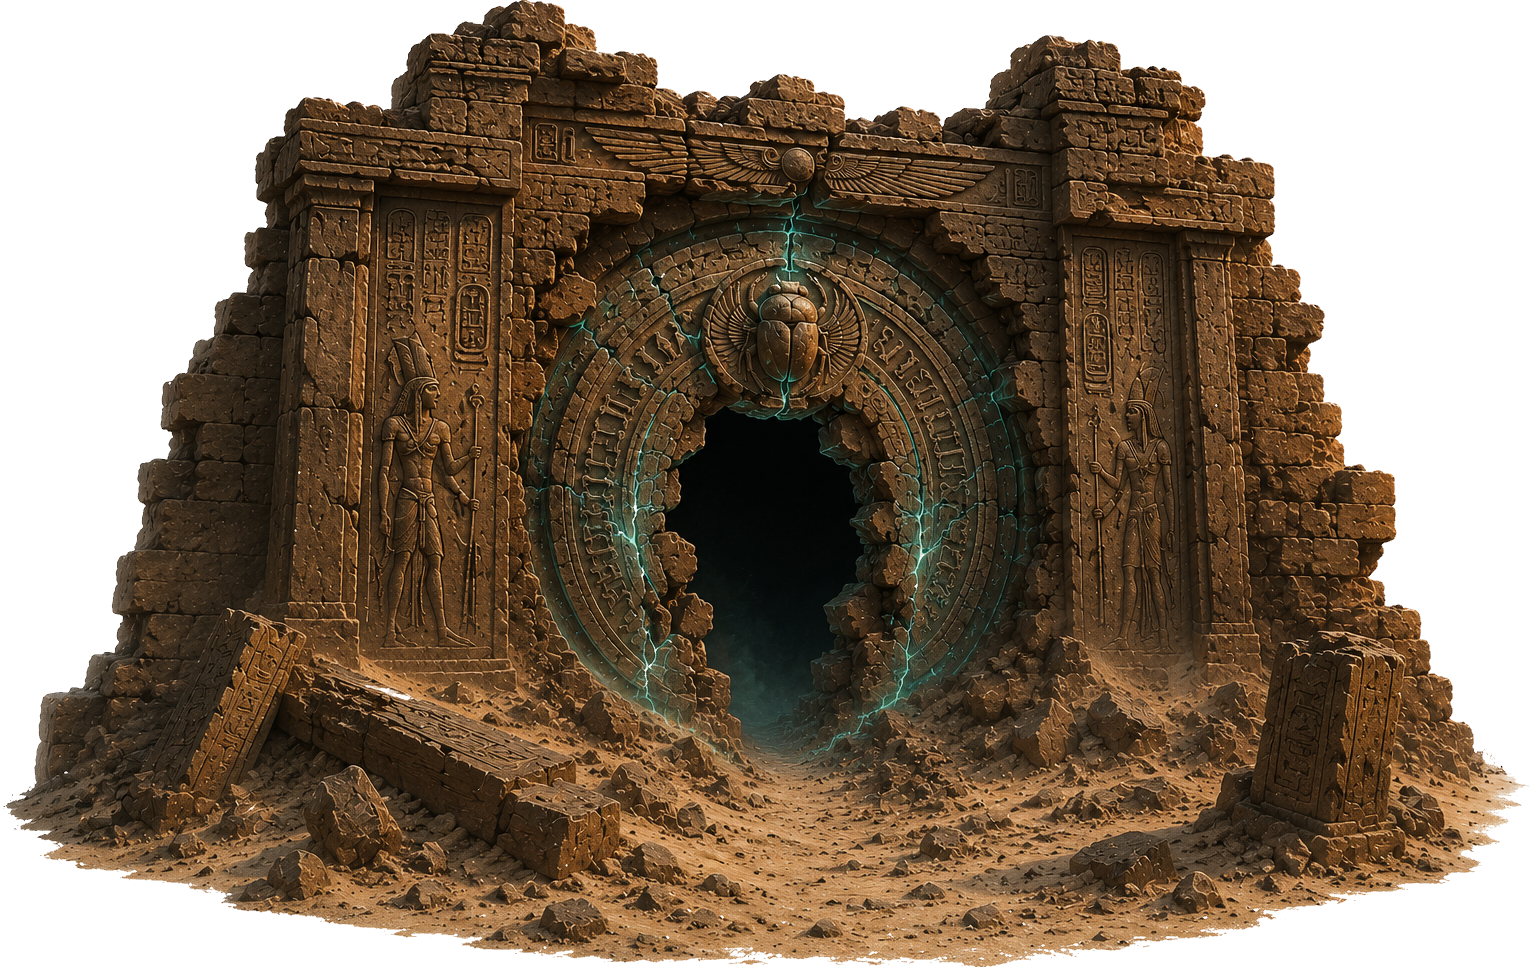
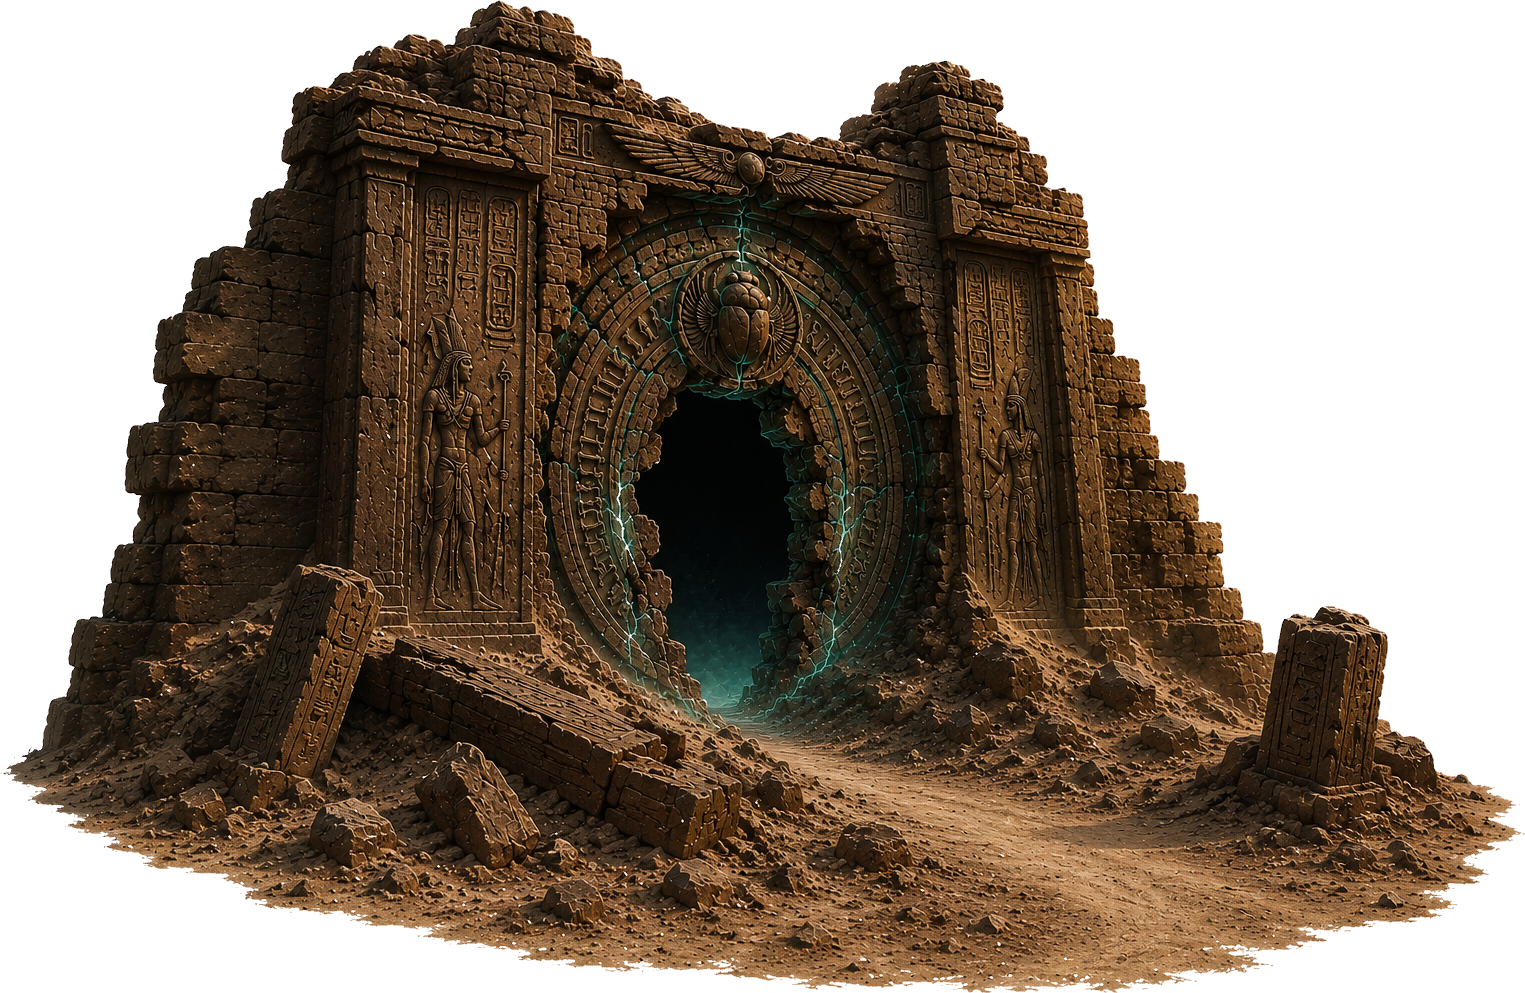
Use the deeper portal version of the Desert Entry threshold gateway
Swap to the threshold-gateway build whose breach reads as a living portal --
teal-lit interior with a path receding into the dark, brighter seams -- instead
of a flat black gap. Re-keyed over the same asset; box nudged to 278x181 for the
new aspect (1.54). Build green.

diff --git a/src/components/expedition-journey/journeyLevelData.js b/src/components/expedition-journey/journeyLevelData.js
@@ -1206,7 +1206,7 @@ export const STORY_PROPS = [
   // Keyed Duat hero art (user-generated, white-keyed): the threshold seal Asha was pulled
   // through (behind spawn, its teal glow guttering out) + the half-mummified body of a
   // trespasser who came before, the grim centerpiece of the abandoned cache.
-  { id: 'opening-duat-breach-wall', sectionId: 'desert-entry', type: 'image-prop', imageAssetKey: 'duatBreachWall', assetPath: 'assets/expedition/environment/egypt-atmosphere/props/desert-entry/duat-breach-wall-2026-06-30.png', x: 0, y: 604, width: 278, height: 176, depth: 'midground', layer: 'background', alpha: 0.99, colorGradeFilter: 'saturate(72%) brightness(80%) contrast(110%)', shadowOpacity: 0.24, zIndex: 2, label: 'the ruined scarab gateway Asha climbed out of, its teal seam guttering shut behind her at spawn' },
+  { id: 'opening-duat-breach-wall', sectionId: 'desert-entry', type: 'image-prop', imageAssetKey: 'duatBreachWall', assetPath: 'assets/expedition/environment/egypt-atmosphere/props/desert-entry/duat-breach-wall-2026-06-30.png', x: 0, y: 604, width: 278, height: 181, depth: 'midground', layer: 'background', alpha: 0.99, colorGradeFilter: 'saturate(72%) brightness(80%) contrast(110%)', shadowOpacity: 0.24, zIndex: 2, label: 'the ruined scarab gateway Asha climbed out of, its teal seam guttering shut behind her at spawn' },
   { id: 'opening-duat-crawl-marks', sectionId: 'desert-entry', type: 'image-prop', imageAssetKey: 'duatCrawlMarks', assetPath: 'assets/expedition/environment/egypt-atmosphere/props/desert-entry/duat-crawl-marks-2026-06-30.png', x: X(47), y: 604, width: 166, height: 108, depth: 'grounded', layer: 'foreground', alpha: 0.82, colorGradeFilter: 'saturate(76%) brightness(82%) contrast(96%)', shadowOpacity: 0, sandOverlapHeight: 8, sandMoundWidth: 136, groundPebbles: 1, zIndex: 14, label: 'shallow handprints and crawl marks dragged through the dead sand back toward the failing seal' },
   { id: 'opening-duat-fallen-trespasser', sectionId: 'desert-entry', type: 'image-prop', imageAssetKey: 'duatFallenTrespasser', assetPath: 'assets/expedition/environment/egypt-atmosphere/props/desert-entry/duat-fallen-trespasser-2026-06-30.png', x: X(72), y: 600, width: 152, height: 108, depth: 'grounded', layer: 'foreground', alpha: 1, colorGradeFilter: 'saturate(36%) brightness(66%) contrast(112%)', shadowOpacity: 0.2, zIndex: 16, label: 'the half-mummified remains of a trespasser who crawled from the breach and died reaching back for it' },
   { id: 'opening-duat-dropped-mirror-compass', sectionId: 'desert-entry', type: 'image-prop', imageAssetKey: 'duatDroppedMirrorCompass', assetPath: 'assets/expedition/environment/egypt-atmosphere/props/desert-entry/duat-dropped-mirror-compass-2026-06-30.png', x: X(96), y: 603, width: 74, height: 74, depth: 'grounded', layer: 'foreground', alpha: 0.92, colorGradeFilter: 'saturate(70%) brightness(74%) contrast(104%)', shadowOpacity: 0.12, sandOverlapHeight: 5, sandMoundWidth: 56, groundPebbles: 1, zIndex: 17, label: 'a dropped bronze mirror and broken compass angled back toward the scarab threshold' },
